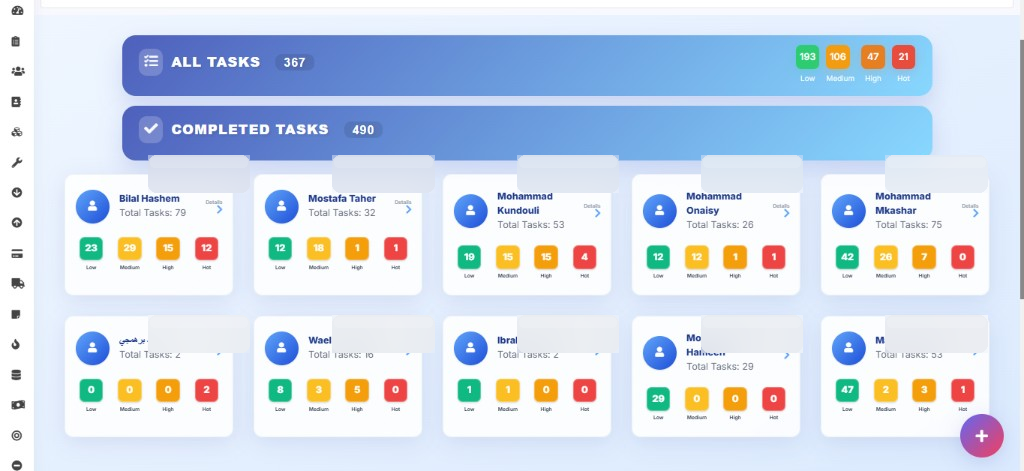
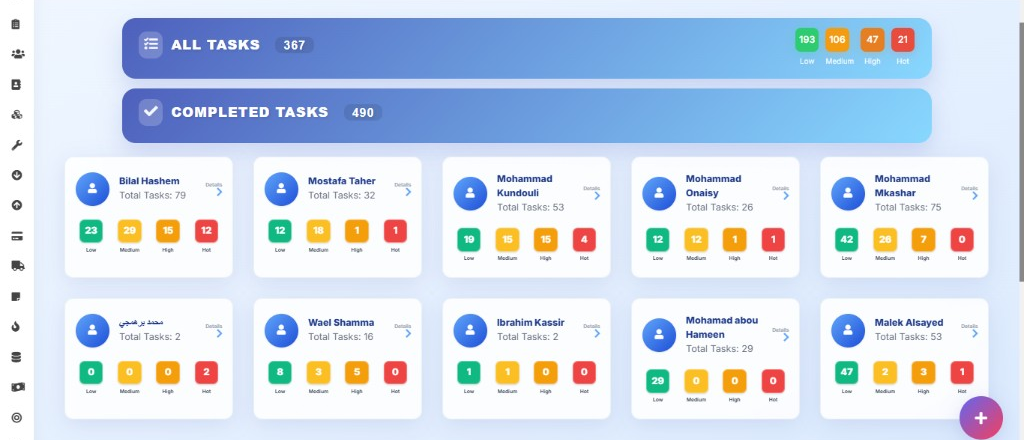
Add tasks, calendar, HR, and repair AI case study shots.

diff --git a/src/content/flashmedErp.js b/src/content/flashmedErp.js
@@ -66,5 +66,41 @@ export const flashmedErp = {
       built:
         "A salesman dashboard with per-rep cards for total sales, target, %, leads, hot leads, and remaining — filterable by year and month.",
     },
+    {
+      n: "07",
+      file: "07-tasks",
+      title: "Tasks by person and priority",
+      problem:
+        "Managers couldn’t see who was overloaded or which work was Hot versus Low without opening each queue.",
+      built:
+        "A tasks board with All / Completed totals and per-person cards broken into Low / Medium / High / Hot.",
+    },
+    {
+      n: "08",
+      file: "08-calendar",
+      title: "Team calendar across departments",
+      problem:
+        "Field visits and office work lived in chats and personal calendars, so conflicts showed up late.",
+      built:
+        "A shared month calendar filterable by user and department, with bilingual entries and overflow counts per day.",
+    },
+    {
+      n: "09",
+      file: "09-hr-home",
+      title: "HR home for leave and payroll",
+      problem:
+        "Leave status, payroll, and staff documents were scattered across separate screens.",
+      built:
+        "An HR home with On Leave / Pending / Approved tiles plus jumps into Payroll, Documents, Staff, and Internships.",
+    },
+    {
+      n: "10",
+      file: "10-repair-ai",
+      title: "Repair dashboard with AI analytics",
+      problem:
+        "Managers saw ticket counts, but not a quick read on each engineer’s completed vs pending work.",
+      built:
+        "A Repair Dashboard with ticket totals and per-engineer cards — View Jobs plus an AI Analytics action on the same performance data.",
+    },
   ],
 };
